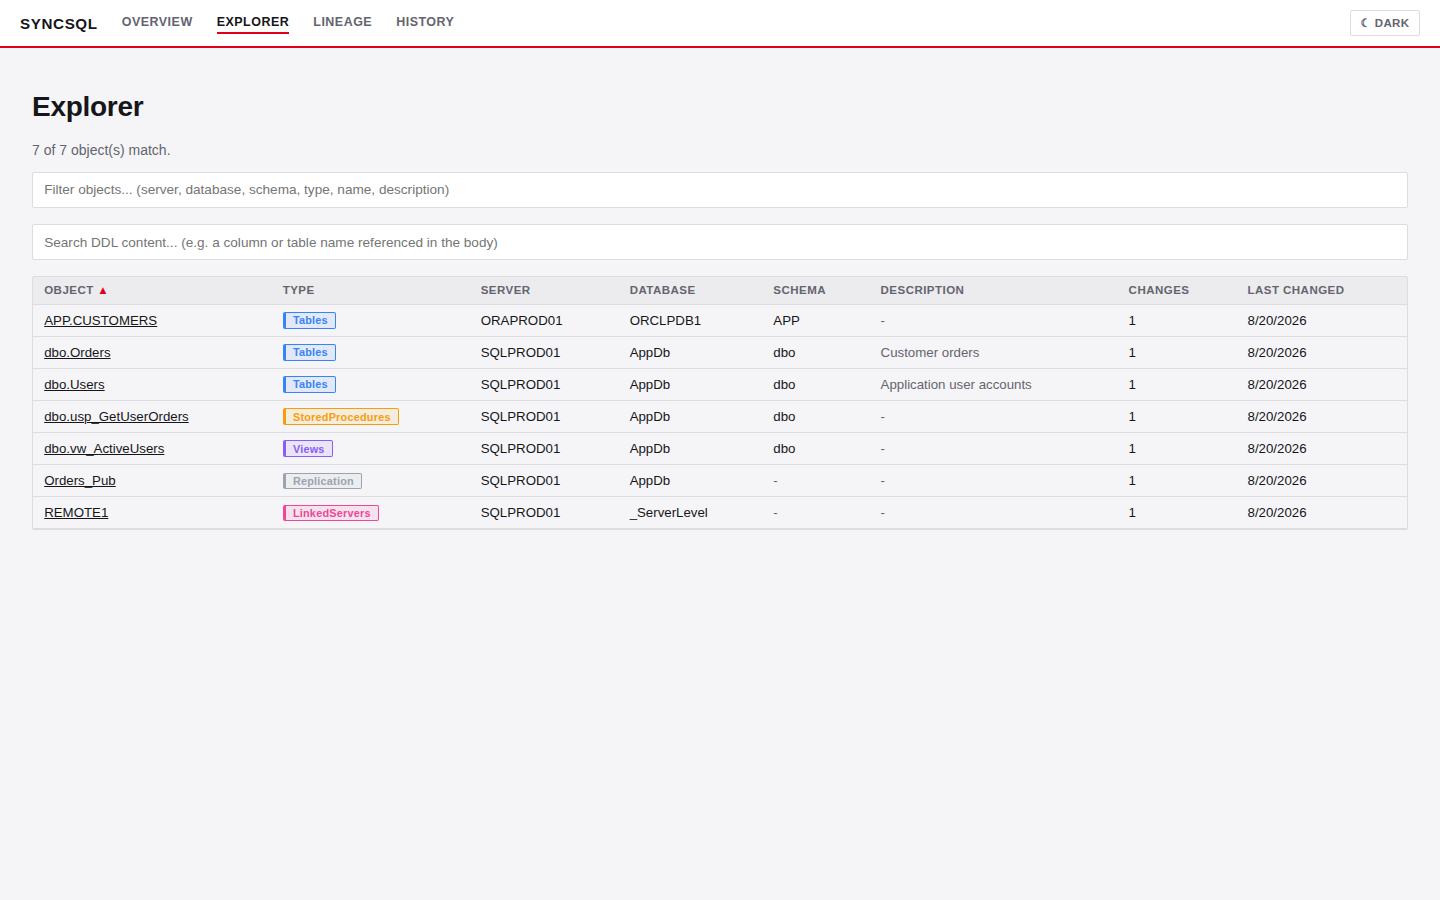
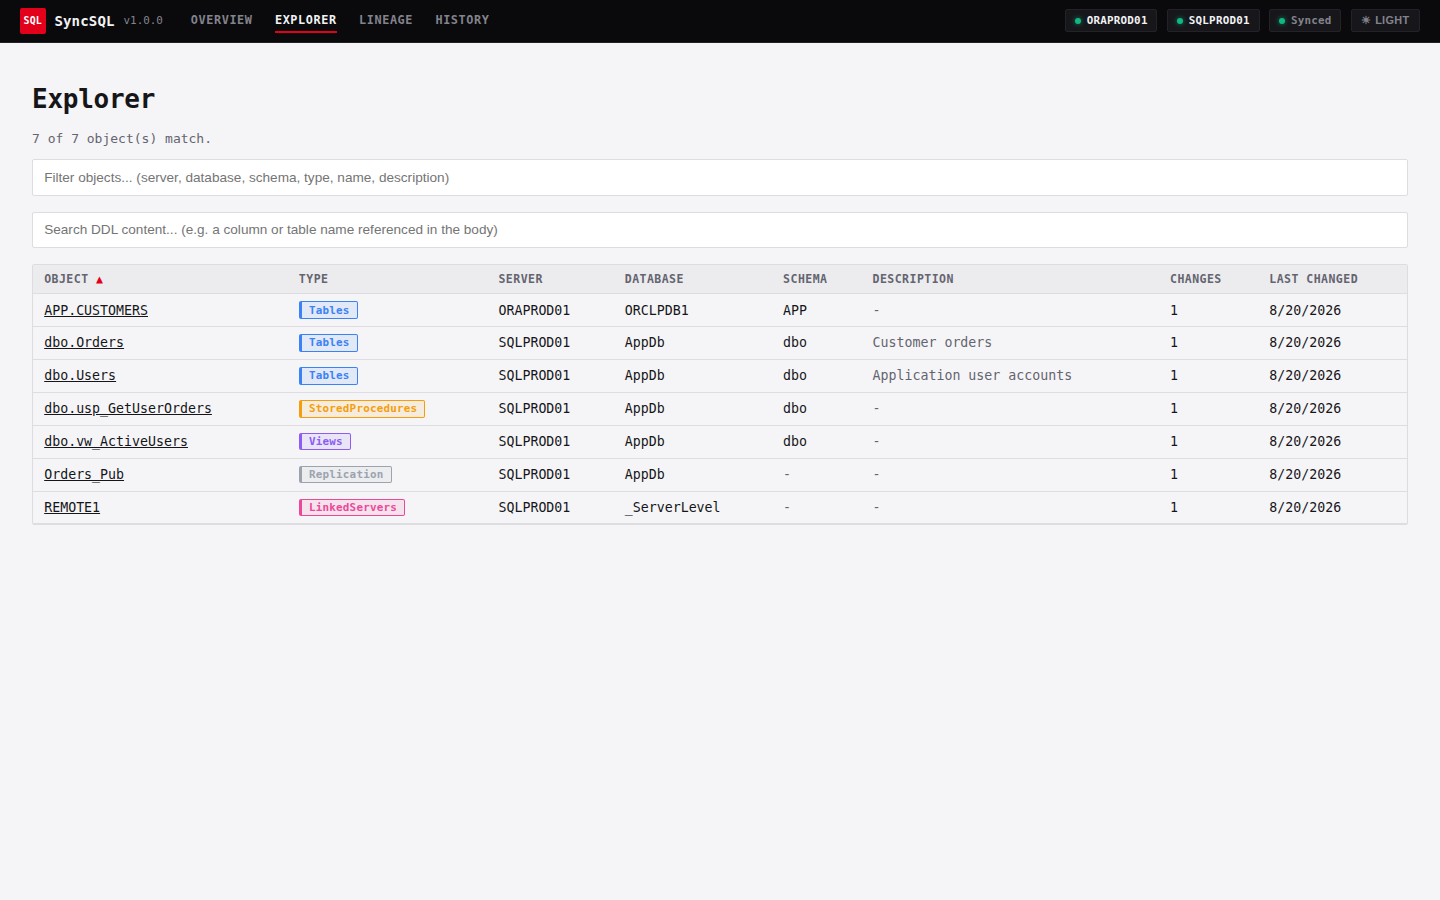
Refresh README screenshots for the redesigned UI
Regenerates all nine screenshots against the console-style redesign
(dark chrome topbar, monospace type, quick-stats/alert-card overview
sections) and updates the surrounding captions to match.

diff --git a/README.md b/README.md
@@ -15,15 +15,18 @@ noisy.
 
 ## Screenshots
 
-**Overview** — object counts, recently changed objects, most-referenced
-tables, a change-frequency heatmap, and objects that tend to change together.
+**Overview** — a console-style shell (dark chrome topbar, monospace type) around
+a quick-stats row (objects, commits mined, lineage edges, last change), object
+counts by type, recently changed objects, most-referenced tables, a
+change-activity calendar heatmap, and objects that tend to change together.
 
 ![Overview page](docs/screenshots/overview.png)
 
-**Metrics anomalies & orphaned references** — further down the Overview page:
-tables whose latest metrics snapshot swung sharply (a row-count jump or an
-index fragmentation spike), and references that don't resolve to anything in
-the catalog's scope, usually a renamed or dropped target.
+**Metrics anomalies & orphaned references** — flagged as alert cards near the
+top of the Overview page: tables whose latest metrics snapshot swung sharply
+(a row-count jump or an index fragmentation spike), and references that don't
+resolve to anything in the catalog's scope, usually a renamed or dropped
+target.
 
 ![Overview metrics anomalies and orphaned references panels](docs/screenshots/overview-anomalies.png)
 
@@ -46,8 +49,10 @@ state stays live in the URL (**Copy link** for a shareable view), and
 
 ![Lineage graph](docs/screenshots/lineage.png)
 
-**Object detail** — full column list, DDL, foreign keys / check constraints /
-indexes, and a metrics panel of volume/index/optimizer-statistics trends.
+**Object detail** — a breadcrumb trail, a quick-facts bar (modified date,
+deps, used-by, columns) with a jump to the lineage graph, full column list,
+DDL, foreign keys / check constraints / indexes, and a metrics panel of
+volume/index/optimizer-statistics trends.
 
 ![Object detail page](docs/screenshots/object-detail.png)
 
